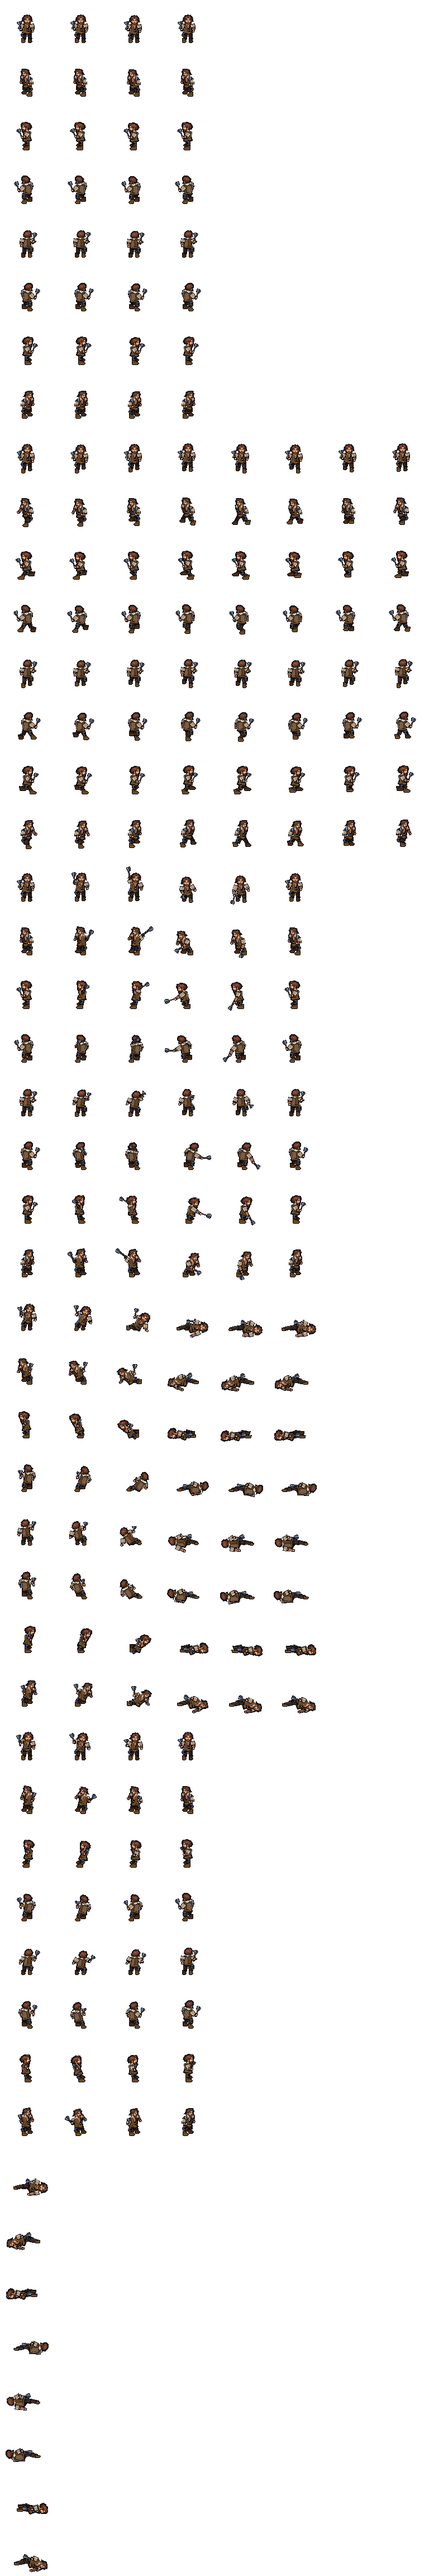
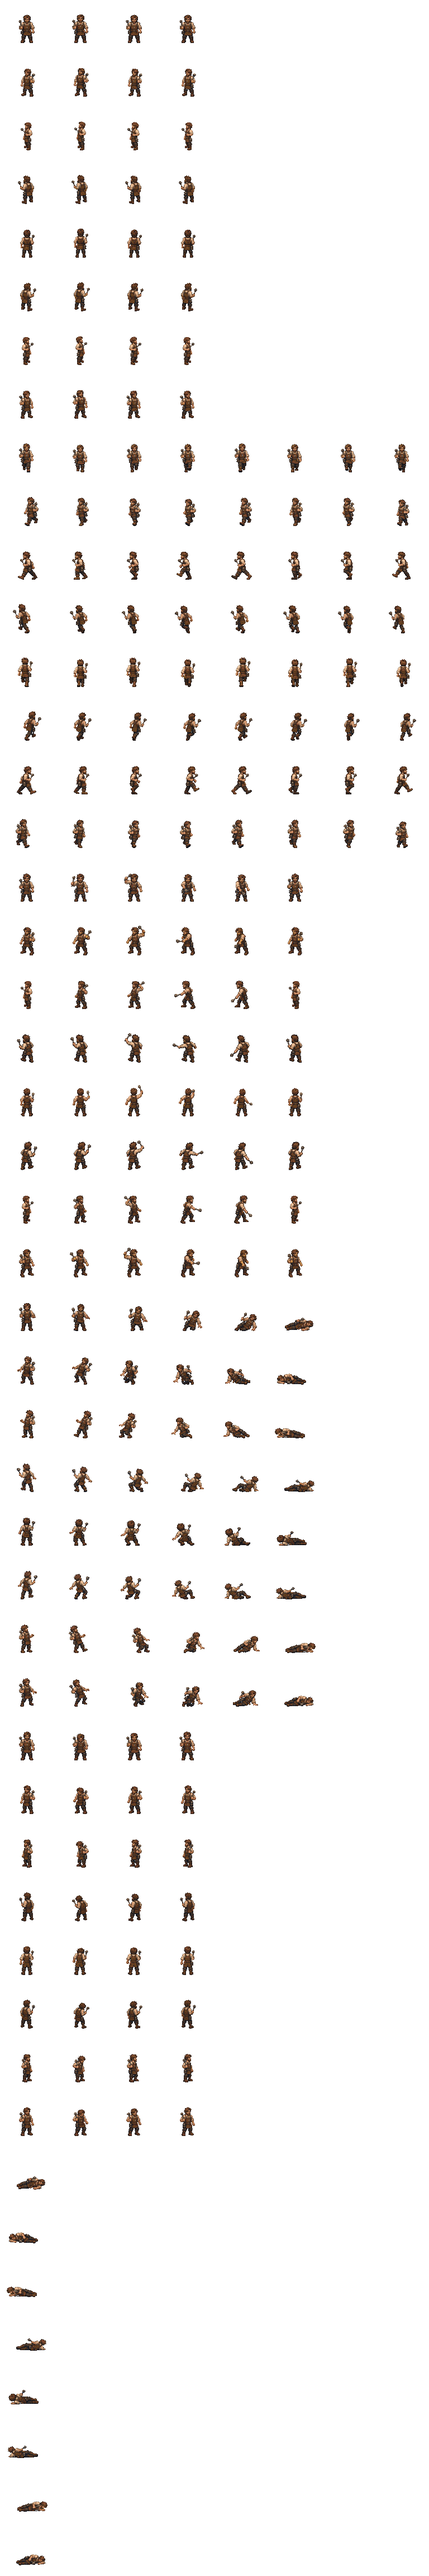
The crew boss redrawn: the pair and his fight figure, the art desk's illustrated cut
The art desk's ART-WANTED-78 CREW-BOSS ILLUSTRATED REDRAW (art-wanted 65's crew boss: the woman and
the man, a brown bib waistcoat, rolled cream sleeves, a whistle, the belt lamp drawn dark; and the
man's fight figure with the iron mace) cut into folkman_crewboss_p1, folkwoman_crewboss_p1 and
crewboss_p1 in place of the 11-15 code-drawn pages: image-generated on the navy, all three in one
delivery and one FRAME-MAP.csv, each with its own native cut on the 64 (<figure>/NATIVE-PREVIEWS/
<view>-<row>-1X.png), taken as drawn; only the clown-red on faces and hands moved off red (`unred`
everywhere: no red cloth). crewboss_p1 keeps its cell (96 x 96 at 48,76), rows and timing: idle 4,
walk 8, attack 6 (the Mace, release 3), flinch 4, hurt 6, prone 1 (the Fall's last pose). Every
drawn frame checked against the art desk's strips and inside its map's bounds; every other costume
rebuilt byte for byte.

tools/folk-costume-sheet.py: the crew boss's CSV shape (`native_offset_xy`), `shared` (one map, two
pieces). Sorted out of Fresh to deep16/_src/folkcostumes/2026-11-18-ART-WANTED-78-CREW-BOSS-REDRAW/.

folk1115 24 ok, parade1115 22 ok, the gate's show line-up 177 ok (the crew boss every row twice).
Eyes eyes-crewboss-redraw-1118 (the gallery's CREATURES shelf, the three side by side); the art
desk's holds on the dream list.

On the lanes desk's brief, Griz: "all 3".

diff --git a/js/eyes.js b/js/eyes.js
@@ -22,6 +22,11 @@
   var DS = window.DS = window.DS || {};
   var G1 = 'Eyes: first', G2 = 'Eyes: built this week', G3 = 'Eyes: built before, never seen';
   DS.EYES = {
+    // THE CUTTER (cutter-1118), 11-18 (Opus; tools/folk-costume-sheet.py crewboss, crewbossfight; deep16/art/folk{man,woman}_crewboss_p1, crewboss_p1): the crew boss redrawn, the pair and his fight figure
+    'eyes-crewboss-redraw-1118': { pri: 2, group: G2, title: 'THE CREW BOSS REDRAWN: the Galleries\' scrapeboss and the man in the art desk\'s illustrated figures, and his fight figure with the mace (11-18)', pt: 'the bestiary lane, 2026-11-18 (the cutter, cutter-1118; tools/folk-costume-sheet.py; deep16/art/folk{man,woman}_crewboss_p1, crewboss_p1)',
+      obj: 'In the gallery, look over the crew bosses: the pair, and the man swinging his mace — do they read as their portraits?',
+      url: 'deep16/?gallery&shelf=creatures&rows=folkman_crewboss_p1,folkwoman_crewboss_p1,crewboss_p1&beside&fresh=1118c',
+      look: 'A LOOK, the gallery\'s CREATURES shelf with the three side by side: the art desk\'s illustrated redraw of the crew boss -- a brown bib waistcoat, rolled cream sleeves, a whistle, the lamp at the belt drawn dark (the game draws its light) -- the woman (the Guano Galleries\' scrapeboss) and the man, in place of the code-drawn pair you called "laughably hideous"; and the man\'s fight figure, the iron mace in his right hand: Ready, Walk, the Mace (its blow lands on frame 4), Flinch, Fall, Prone (the Fall\'s last pose). He leads the night crew down the daytime way and comes to every creature in the parade to knock it down. Taken as the art desk cut them; only the clown-red on faces and hands moved off red. In motion: the day\'s parade, deep16/?parade&only=wyvern,frostgiant,winterwolf,guard,cockatrice,greenhag&from=4 (he fights each one at its end; the pair walk in round the cockatrice). The art desk\'s own flags, on the wishlist: most side and rear walks lead with the same boot twice; his S Mace hides its head in his body at the blow; the SE and E falls end partly forward on the shoulder. Judge: do they read as their portraits; does the mace blow land?' },
     // THE CUTTER (cutter-1118), 11-18 (Opus; tools/folk-costume-sheet.py guard, guardfight; deep16/art/folk{man,woman}_guard_p1, guard_p2, guardwoman_p1; data/foes.js guard): the guard redrawn, and its fight figures
     'eyes-guard-redraw-1118': { pri: 2, group: G2, title: 'THE GUARD REDRAWN, AND IN A FIGHT: the gate hand and the Line\'s woman in the art desk\'s illustrated figures, the Line Guard in his own (11-18)', pt: 'the bestiary lane, 2026-11-18 (the cutter, cutter-1118; tools/folk-costume-sheet.py; deep16/art/folk{man,woman}_guard_p1, guard_p2, guardwoman_p1; data/foes.js guard)',
       obj: 'In the gallery, look over the guards: the town pair and the Line\'s fight figures — do they read as their portraits?',

diff --git a/deep16/data/sprites.js b/deep16/data/sprites.js
@@ -3251,12 +3251,12 @@
 "source": "generated by Griz with Grok (2026-09-27; the side rows, and the panel's front and top views for S and N) and the art desk (2026-10-17, ART-44: the SE and NE views of every row, the front and back of the fall), cut and snapped by tools/crawler-sheet.py"
 },
 "crewboss_p1": {
-"image": "art/crewboss_p1.png?v=400aa771cc",
+"image": "art/crewboss_p1.png?v=aceb138ce0",
 "fw": 96,
 "fh": 96,
 "ax": 48,
 "ay": 76,
-"top": 50,
+"top": 51,
 "anims": {
 "idle": {
 "y": 0,
@@ -3314,7 +3314,7 @@
 "fps": 1
 }
 },
-"source": "drawn by the art desk (ART-WANTED-78 CREW-BOSS-MALE-FIGHT, 11-15: five views, Idle 4, Walk 8, Mace 6, Flinch 4, Fall 6, Prone 1, native 4x on its 96 x 96 cell), cut by tools/folk-costume-sheet.py (11-15)"
+"source": "drawn by the art desk (ART-WANTED-78 CREW-BOSS ILLUSTRATED REDRAW, 11-18: his fight figure, five views, Ready Idle 4, Walk 8, Mace 6, Flinch 4, Fall 6, Prone 1, image-generated, its native cut 1x on its 96 x 96 cell), cut by tools/folk-costume-sheet.py (11-15)"
 },
 "crewman_p1": {
 "image": "art/crewman_p1.png?v=9336a5853e",
@@ -5177,7 +5177,7 @@
 "source": "drawn by the art desk (ART-WANTED-79 CLERK, 11-15: five views, Idle 4 and Walk 8, native 4x on folkman_p1's cell), cut by tools/folk-costume-sheet.py (11-15)"
 },
 "folkman_crewboss_p1": {
-"image": "art/folkman_crewboss_p1.png?v=f3595d2396",
+"image": "art/folkman_crewboss_p1.png?v=3adc641785",
 "fw": 72,
 "fh": 64,
 "ax": 36,
@@ -5203,7 +5203,7 @@
 "fps": 12
 }
 },
-"source": "drawn by the art desk (ART-WANTED-78 CREW-BOSS-WORLD, 11-15: five views, Idle 4 and Walk 8, native 4x on folkman_p1's cell), cut by tools/folk-costume-sheet.py (11-15)"
+"source": "drawn by the art desk (ART-WANTED-78 CREW-BOSS ILLUSTRATED REDRAW, 11-18: five views, Idle 4 and Walk 8, image-generated, its native cut 1x on folkman_p1's cell), cut by tools/folk-costume-sheet.py (11-15)"
 },
 "folkman_drinker_p1": {
 "image": "art/folkman_drinker_p1.png?v=7ccff93a31",
@@ -5496,7 +5496,7 @@
 "source": "drawn by the art desk (ART-WANTED-79 CLERK, 11-15: five views, Idle 4 and Walk 8, native 4x on folkman_p1's cell), cut by tools/folk-costume-sheet.py (11-15)"
 },
 "folkwoman_crewboss_p1": {
-"image": "art/folkwoman_crewboss_p1.png?v=7a8cd46c86",
+"image": "art/folkwoman_crewboss_p1.png?v=1573f7e3a1",
 "fw": 72,
 "fh": 64,
 "ax": 36,
@@ -5522,7 +5522,7 @@
 "fps": 12
 }
 },
-"source": "drawn by the art desk (ART-WANTED-78 CREW-BOSS-WORLD, 11-15: five views, Idle 4 and Walk 8, native 4x on folkman_p1's cell), cut by tools/folk-costume-sheet.py (11-15)"
+"source": "drawn by the art desk (ART-WANTED-78 CREW-BOSS ILLUSTRATED REDRAW, 11-18: five views, Idle 4 and Walk 8, image-generated, its native cut 1x on folkman_p1's cell), cut by tools/folk-costume-sheet.py (11-15)"
 },
 "folkwoman_drinker_p1": {
 "image": "art/folkwoman_drinker_p1.png?v=d4e1b125cc",

diff --git a/deep16/index.html b/deep16/index.html
@@ -77,7 +77,7 @@
 <script src="js/art.js?v=e1ce4cf012"></script>
 <script src="data/cavern.js?v=647c1a184a"></script>
 <script src="data/maps.js?v=bef56a5de9"></script>
-<script src="data/sprites.js?v=963d950a5c"></script>
+<script src="data/sprites.js?v=4b988d974b"></script>
 <script src="js/sprites.js?v=ac7a3234c4"></script>
 <script src="js/save.js?v=f69af62f01"></script>
 <script src="data/spells.js?v=ae0037fb81"></script>
@@ -192,7 +192,7 @@
 <script src="js/parade.js?v=c64f9440c0"></script>
 <script src="js/ripplesfight.js?v=06a2bb3211"></script>
 <script src="js/blackegg.js?v=a19c31ed0d"></script>
-<script src="../js/eyes.js?v=630cd373a5"></script>
+<script src="../js/eyes.js?v=6b9c5874f8"></script>
 <script src="../js/tour.js?v=7715ef6c40"></script>
 <script src="js/onegallery.js?v=76e4ef74c9"></script>
 <script src="js/situations16.js?v=5ca0e8c2ff"></script>

diff --git a/tools/folk-costume-sheet.py b/tools/folk-costume-sheet.py
@@ -98,16 +98,20 @@ PIECES = {
                        navy=None, stand=False, unred=0, cell=(96, 96, 48, 76), targets={'man': 'guard_p2', 'woman': 'guardwoman_p1'},
                        rows=[('idle', 'idle', 4, 4, None), ('walk', 'walk', 8, 9, None), ('spear', 'attack', 6, 12, 3), ('flinch', 'flinch', 4, 12, None),
                              ('fall', 'hurt', 6, 8, None), ('prone', 'prone', 1, 1, None)]),
-    'crewboss': dict(folder='2026-11-15-ART-WANTED-78-CREW-BOSS-WORLD', name='ART-WANTED-78 CREW-BOSS-WORLD, 11-15: five views, Idle 4 and Walk 8, native 4x on folkman_p1\'s cell',
-                     navy=(17, 24, 45), stand=False),
+    # (the crew boss's first, code-drawn pages -- 2026-11-15-ART-WANTED-78-CREW-BOSS-WORLD and -MALE-FIGHT, native 4x, navy (17, 24, 45) -- replaced by its
+    # redraw, 11-18: image-generated on the navy, the world pair and his fight figure in one delivery with one map, each with the art desk's own native cut
+    # on the 64, taken as drawn but for the red and fire on faces and hands, `unred` everywhere (a brown bib, cream sleeves, the lamp dark metal: no red
+    # cloth); `shared`: the map's frames for the other piece's figures passed over)
+    'crewboss': dict(folder='2026-11-18-ART-WANTED-78-CREW-BOSS-REDRAW', name='ART-WANTED-78 CREW-BOSS ILLUSTRATED REDRAW, 11-18: five views, Idle 4 and Walk 8, image-generated, its native cut 1x on folkman_p1\'s cell',
+                     navy=None, stand=False, unred=0, shared=True),
     'clerk': dict(folder='2026-11-15-ART-WANTED-79-CLERK', name='ART-WANTED-79 CLERK, 11-15: five views, Idle 4 and Walk 8, native 4x on folkman_p1\'s cell',
                   navy=(17, 24, 45), stand=False),
     # the crew boss man's fight sheet (the art desk's 78, on his "pasted to the art desk re Crew Boss"): foes.js crewboss wears it, off Hask's
     # hask_p1; its own 96 x 96 cell, the trooper's fight rows (trooper_p2's fps), the Mace's blow landing on its frame 4 (`release` 3)
-    'crewbossfight': dict(folder='2026-11-15-ART-WANTED-78-CREW-BOSS-MALE-FIGHT', name='ART-WANTED-78 CREW-BOSS-MALE-FIGHT, 11-15: five views, Idle 4, Walk 8, Mace 6, Flinch 4, Fall 6, Prone 1, native 4x on its 96 x 96 cell',
-                          navy=(17, 24, 45), stand=False, cell=(96, 96, 48, 76), targets={'proposed crewboss_p1': 'crewboss_p1'},
-                          rows=[('idle', 'idle', 4, 4, None), ('walk', 'walk', 8, 9, None), ('mace', 'attack', 6, 12, 3), ('flinch', 'flinch', 4, 12, None),
-                                ('fall', 'hurt', 6, 8, None), ('prone', 'prone', 1, 1, None)]),
+    'crewbossfight': dict(folder='2026-11-18-ART-WANTED-78-CREW-BOSS-REDRAW', name='ART-WANTED-78 CREW-BOSS ILLUSTRATED REDRAW, 11-18: his fight figure, five views, Ready Idle 4, Walk 8, Mace 6, Flinch 4, Fall 6, Prone 1, image-generated, its native cut 1x on its 96 x 96 cell',
+                          navy=None, stand=False, unred=0, shared=True, cell=(96, 96, 48, 76), targets={'crewboss_p1': 'crewboss_p1'},
+                          rows=[('idle', 'idle', 4, 4, None), ('walk', 'walk', 8, 9, None), ('attack', 'attack', 6, 12, 3), ('flinch', 'flinch', 4, 12, None),
+                                ('hurt', 'hurt', 6, 8, None), ('prone', 'prone', 1, 1, None)]),
 }
 
 
@@ -141,6 +145,14 @@ def frames_of(d):
         return [(p['target'], p['facing'], p['row'], f['frame'] - 1, p['png'], tuple(f['source_rect_xywh'])) for p in fm['pages'] for f in p['frames']]   # (the scraper's: `pages`)
     out = []
     for r in csv.DictReader(open(os.path.join(d, 'FRAME-MAP.csv'), encoding='utf-8')):   # (a row a frame; its columns named four ways so far)
+        if r.get('native_offset_xy'):   # (the crew boss's redraw, 11-18: one map for its three figures; the art desk's native cut of a row is
+            # <its folder>/NATIVE-PREVIEWS/<view>-<its row>-1X.png, a transparent strip of cells -- its folder the illustrated source's (WORLD-MAN,
+            # WORLD-WOMAN, FIGHT-MAN), its row the art desk's name (the Mace, the Fall; Prone its own one-cell strip, the Fall's last pose)
+            w, h = int(r['cell_width']), int(r['cell_height'])
+            row = {'attack': 'mace', 'hurt': 'fall'}.get(r['action'], r['action'])
+            out.append((r['target'], r['facing'], r['action'], int(r['frame_index']), '%s/NATIVE-PREVIEWS/%s-%s-1X.png' % (r['source_png'].split('/')[0], r['facing'], row),
+                        (int(r['frame_index']) * w, 0, w, h)))
+            continue
         g = lambda *ks: next(r[k] for k in ks if r.get(k) not in (None, ''))
         idx = int(g('frame_index', 'index')) if any(r.get(k) not in (None, '') for k in ('frame_index', 'index')) else int(g('frame_1based', 'frame', 'frame_number')) - 1
         out.append((g('target', 'runtime_target', 'runtime'), r['facing'], g('action', 'row', 'runtime_row'), idx, g('source_page', 'source_png', 'png', 'cut_sheet'),
@@ -278,6 +290,8 @@ def cut(costume):
                 raise SystemExit('%s %s %s %d: %d colours off the 64' % (name, v, an, idx + 1, len(off)))
             got.setdefault(names[name], {}).setdefault(v, {}).setdefault(rowmap[an][0], {})[idx] = fr
     for name, v, an, idx, page, (x, y, w, h) in ([] if P.get('lime') or P.get('illus') else frames_of(d)):
+        if name not in names and P.get('shared'):
+            continue
         if name not in names:
             raise SystemExit('%s: a frame for %s, not %s' % (page, name, costume))
         if an not in rowmap:

diff --git a/deep16-dream-polish.md b/deep16-dream-polish.md
@@ -150,3 +150,4 @@ Griz, 10-30, to the lanes desk, on Talmok's walks that repeat a leg: *"gimpy art
 - 2026-11-16 · `pegasus_p1` fly, takeflight, walk (the art desk's 69 illustrated redraw) · The art desk's own review holds: each frame was stood by its own lowest pixel, so in flight the body bobs with the wings -- the big jumps (14 to 19 px, SE and E) laid back by the cutter, about 6 px left in S frame 6 and SE frame 5; Take Flight's last frame is not Fly's first (a small jump in scale and wing at the top); the E and rear NE walks' leg contacts not checked as a gait. Cut as drawn but the big jumps. · A flight cycle registered on the body, a take-off ending on Fly's first pose, and walks with the contacts alternating.
 - 2026-11-16 · `folkman_hired_p1` E and NE walks (and their W and NW mirrors), `folkwoman_hired_p1` NE walk (and NW) (the art desk's 76 illustrated redraw) · Held by the art desk, which hit its image ceiling mid-fix: frames 1 and 5 lead with the same leg, so the stride repeats. Cut as drawn on his *"we can wishlist what's broken and use what's there if it included all the pieces"*. Its own note too: in the three repaired walks (the woman's SE and E, the man's SE) the 4 to 5 join is more abrupt than 8 to 1. · Those walks with a second contact on the other leg, joined smoothly at 5.
 - 2026-11-18 · `folkman_guard_p1` SE, E and NE walks, `folkwoman_guard_p1` SE and NE walks (and their SW, W and NW mirrors) (the art desk's 77 illustrated redraw); `guard_p2` and `guardwoman_p1` NE walks (and NW) (its 77 fight figures) · Held by the art desk for a gait it could not fix: frames 1 and 5 lead with the same boot, so the stride repeats; the man's E reads ambiguous at 1x. Cut as drawn, as the hired hand's were on his *"we can wishlist what's broken and use what's there if it included all the pieces"*. · Those walks with a second contact on the other leg.
+- 2026-11-18 · `folkman_crewboss_p1` SE, E, NE and N walks, `folkwoman_crewboss_p1` every walk (with their mirrors); `crewboss_p1` SE, E and NE walks, S Mace, SE and E Fall (the art desk's 78 illustrated redraw) · The art desk's own holds (ART-HOLDS.json): in the walks frames 1 and 5 read as the same leading boot, or the skirt hides the change, and the 8 to 1 seam stays near contact; his S Mace is foreshortened into his body at the blow, its head hidden; the SE and E falls end partly forward on the shoulder, the mace occluded. Cut as drawn, on his *"use what's there"*. · Walks with a second contact on the other leg; a south blow whose mace head shows at contact; falls that end on the side.
